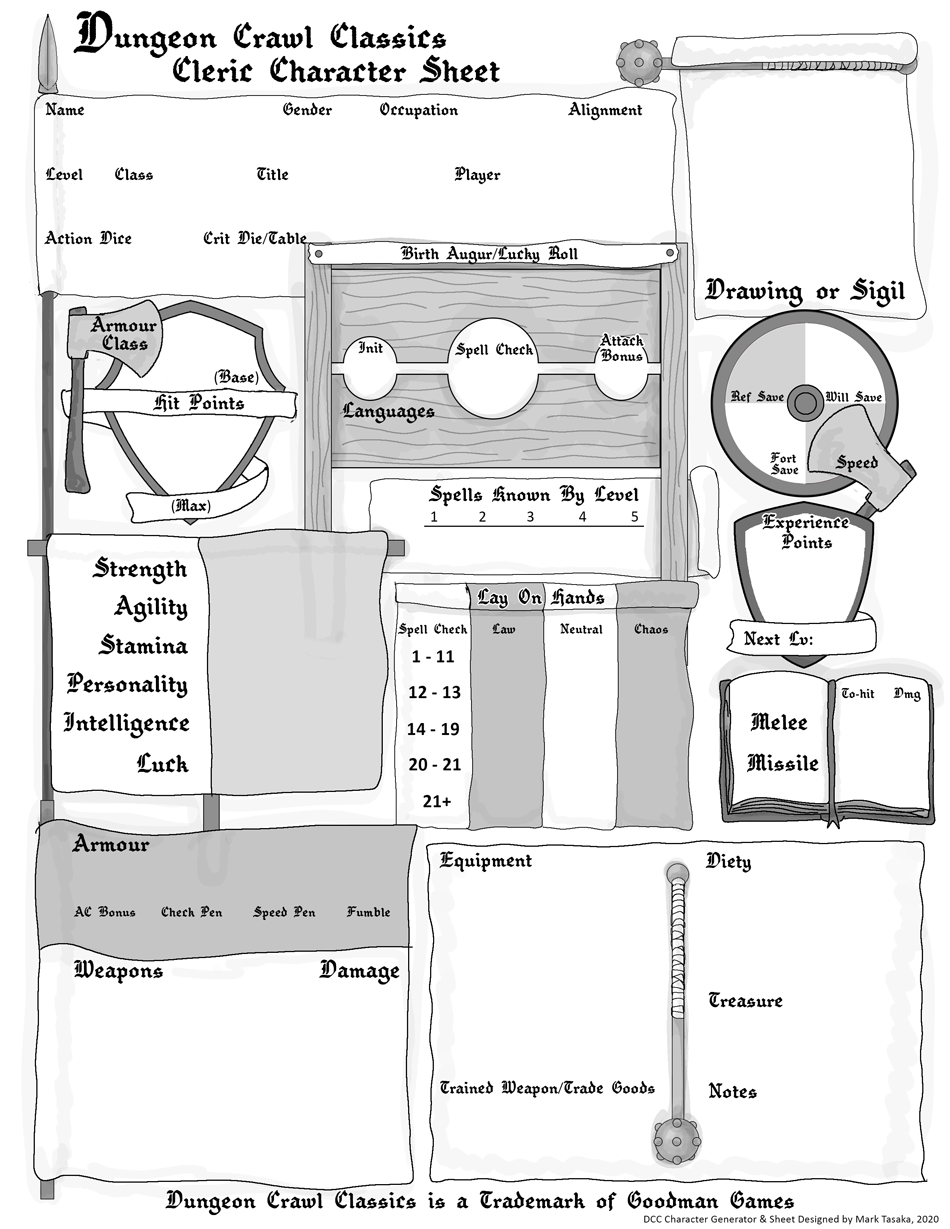
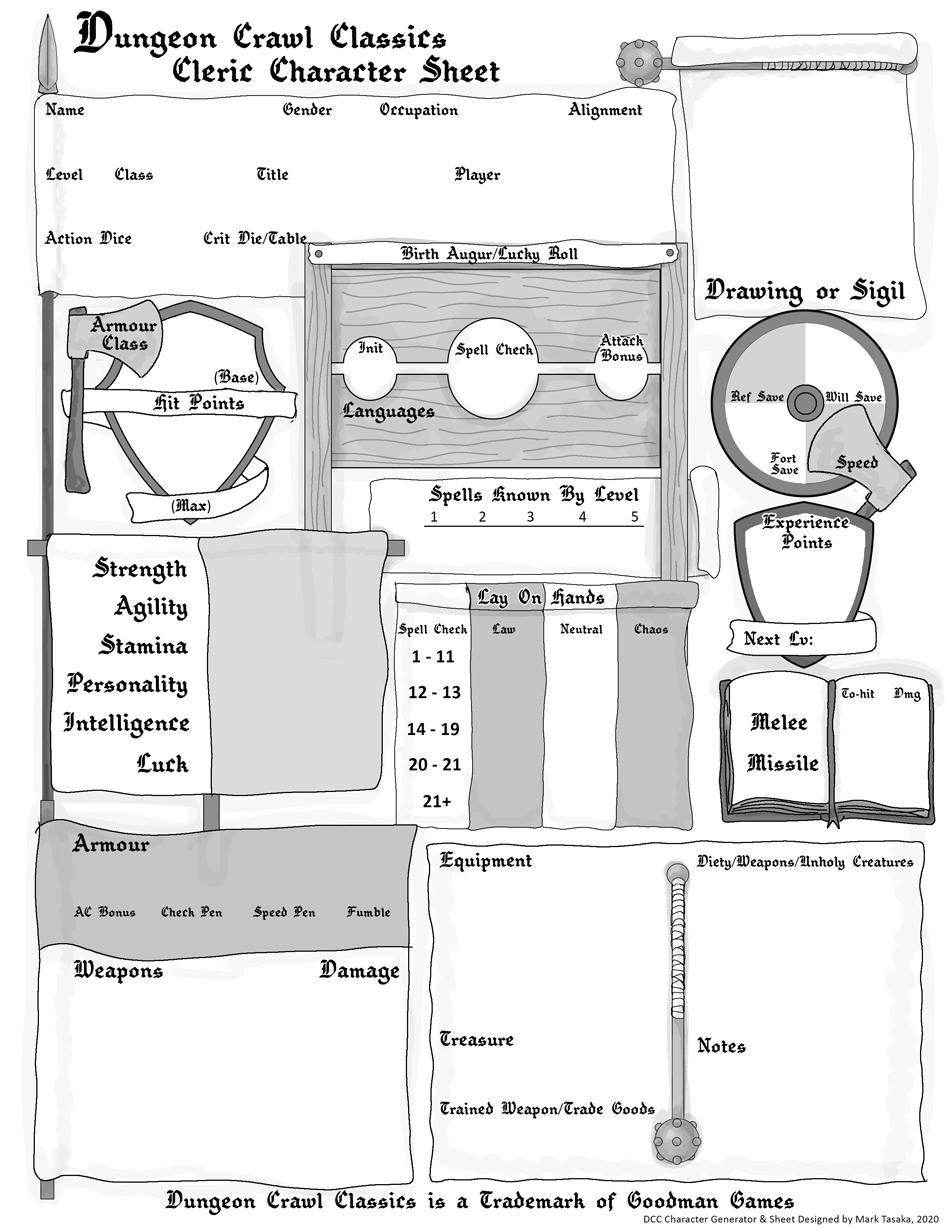
Update 1.01

Changed region(s): [[0.4579, 0.8348, 0.7021, 0.9276], [0.7326, 0.8039, 0.8242, 0.8967], [0.7326, 0.6802, 0.9463, 0.7111]]

diff --git a/character3/css/cleric.css b/character3/css/cleric.css
@@ -18,7 +18,7 @@ body{
 }
 
 
-/*DCC Warrior Generator Version 3 post data css*/
+/*DCC Cleric Generator Version 3 css*/
 
 #characterName{
     position:absolute;
@@ -154,7 +154,7 @@ body{
 
 #gearList{
     position:absolute;
-    top: 735px;
+    top: 883px;
     left: 450px;
     font-size: 0.6em;
     width: 220px;
@@ -162,8 +162,8 @@ body{
 
 #abilityScoreGeneration{
     position:absolute;
-    top: 1110px;
-    left: 700px;
+    top: 1170px;
+    left: 720px;
     font-size: 0.5em;
     width: 190px;
 }
@@ -188,7 +188,7 @@ body{
 
 #trainedWeapon{
     position:absolute;
-    top: 1085px;
+    top: 1110px;
     left: 450px;
 	font-size: 0.6em;
 }
@@ -196,7 +196,7 @@ body{
 
 #tradeGoods{
     position:absolute;
-    top: 1105px;
+    top: 1125px;
     left: 450px;
 	font-size: 0.6em;
 }
@@ -452,16 +452,16 @@ body{
 
 #melee{
     position:absolute;
-    top: 503px;
-    left: 573px;
+    top: 718px;
+    left: 855px;
 	font-size: 1em;
 }
 
 
 #range{
     position:absolute;
-    top: 546px;
-    left: 573px;
+    top: 758px;
+    left: 855px;
 	font-size: 1em;
 }
 
@@ -469,27 +469,200 @@ body{
 
 #meleeDamage{
     position:absolute;
-    top: 503px;
-    left: 620px;
+    top: 718px;
+    left: 900px;
 	font-size: 1em;
 }
 
 
 #rangeDamage{
     position:absolute;
-    top: 546px;
-    left: 620px;
+    top: 758px;
+    left: 900px;
 	font-size: 1em;
 }
 
 
 
-
-
-
-#dieRollMethod{
+#layHandsLaw1{
     position: absolute;
-    top: 100px;
-    left:  50px;
-	font-size: 0.5em;
+    top: 600px;
+    left: 430px;
+	font-size: 0.6em;
+}
+
+#layHandsLaw2{
+    position: absolute;
+    top: 618px;
+    left: 430px;
+	font-size: 0.6em;
+}
+
+#layHandsLaw3{
+    position: absolute;
+    top: 636px;
+    left: 430px;
+	font-size: 0.6em;
+}
+
+#layHandsLaw4{
+    position: absolute;
+    top: 654px;
+    left: 430px;
+	font-size: 0.6em;
+}
+
+
+#layHandsLaw5{
+    position: absolute;
+    top: 672px;
+    left: 430px;
+	font-size: 0.6em;
+}
+
+
+#layHandsNeutral1{
+    position: absolute;
+    top: 600px;
+    left: 480px;
+	font-size: 0.6em;
+}
+
+#layHandsNeutral2{
+    position: absolute;
+    top: 618px;
+    left: 480px;
+	font-size: 0.6em;
+}
+
+#layHandsNeutral3{
+    position: absolute;
+    top: 636px;
+    left: 480px;
+	font-size: 0.6em;
+}
+
+#layHandsNeutral4{
+    position: absolute;
+    top: 654px;
+    left: 480px;
+	font-size: 0.6em;
+}
+
+
+#layHandsNeutral5{
+    position: absolute;
+    top: 672px;
+    left: 480px;
+	font-size: 0.6em;
+}
+
+
+#layHandsChaos1{
+    position: absolute;
+    top: 600px;
+    left: 535px;
+	font-size: 0.6em;
+}
+
+#layHandsChaos2{
+    position: absolute;
+    top: 618px;
+    left: 535px;
+	font-size: 0.6em;
+}
+
+#layHandsChaos3{
+    position: absolute;
+    top: 636px;
+    left: 535px;
+	font-size: 0.6em;
+}
+
+#layHandsChaos4{
+    position: absolute;
+    top: 654px;
+    left: 535px;
+	font-size: 0.6em;
+}
+
+
+#layHandsChaos5{
+    position: absolute;
+    top: 672px;
+    left: 535px;
+	font-size: 0.6em;
+}
+
+#level1Spells{
+    position: absolute;
+    top: 785px;
+    left: 370px;
+	font-size: 0.65em;
+}
+
+#level2Spells{
+    position: absolute;
+    top: 785px;
+    left: 415px;
+	font-size: 0.65em;
+}
+
+#level3Spells{
+    position: absolute;
+    top: 785px;
+    left: 460px;
+	font-size: 0.65em;
+}
+
+#level4Spells{
+    position: absolute;
+    top: 785px;
+    left: 505px;
+	font-size: 0.65em;
+}
+
+#level5Spells{
+    position: absolute;
+    top: 785px;
+    left: 550px;
+	font-size: 0.65em;
+}
+
+
+
+
+#spellCheck{
+    position:absolute;
+    top: 390px;
+    left: 495px;
+	font-size: 0.6em;
+}
+
+
+
+#deity{
+    position:absolute;
+    top: 883px;
+    left: 705px;
+    font-size: 0.6em;
+    width: 220px;
+}
+
+
+#weaponsAllowed{
+    position:absolute;
+    top: 905px;
+    left: 705px;
+    font-size: 0.6em;
+    width: 220px;
+}
+
+
+#unholy{
+    position:absolute;
+    top: 942px;
+    left: 705px;
+    font-size: 0.6em;
+    width: 220px;
 }

diff --git a/character3/dccCleric.php b/character3/dccCleric.php
@@ -255,15 +255,11 @@
 
        <span id="deity">
            <?php
-           echo "Diety: " . $deityName;
+           echo $deityName . " (" . $deityDescription . ")";
            ?>
        </span>
 
-       <span id="deityDescription">
-           <?php
-           echo $deityDescription;
-           ?>
-       </span>
+
 
        
        <span id="weaponsAllowed">
